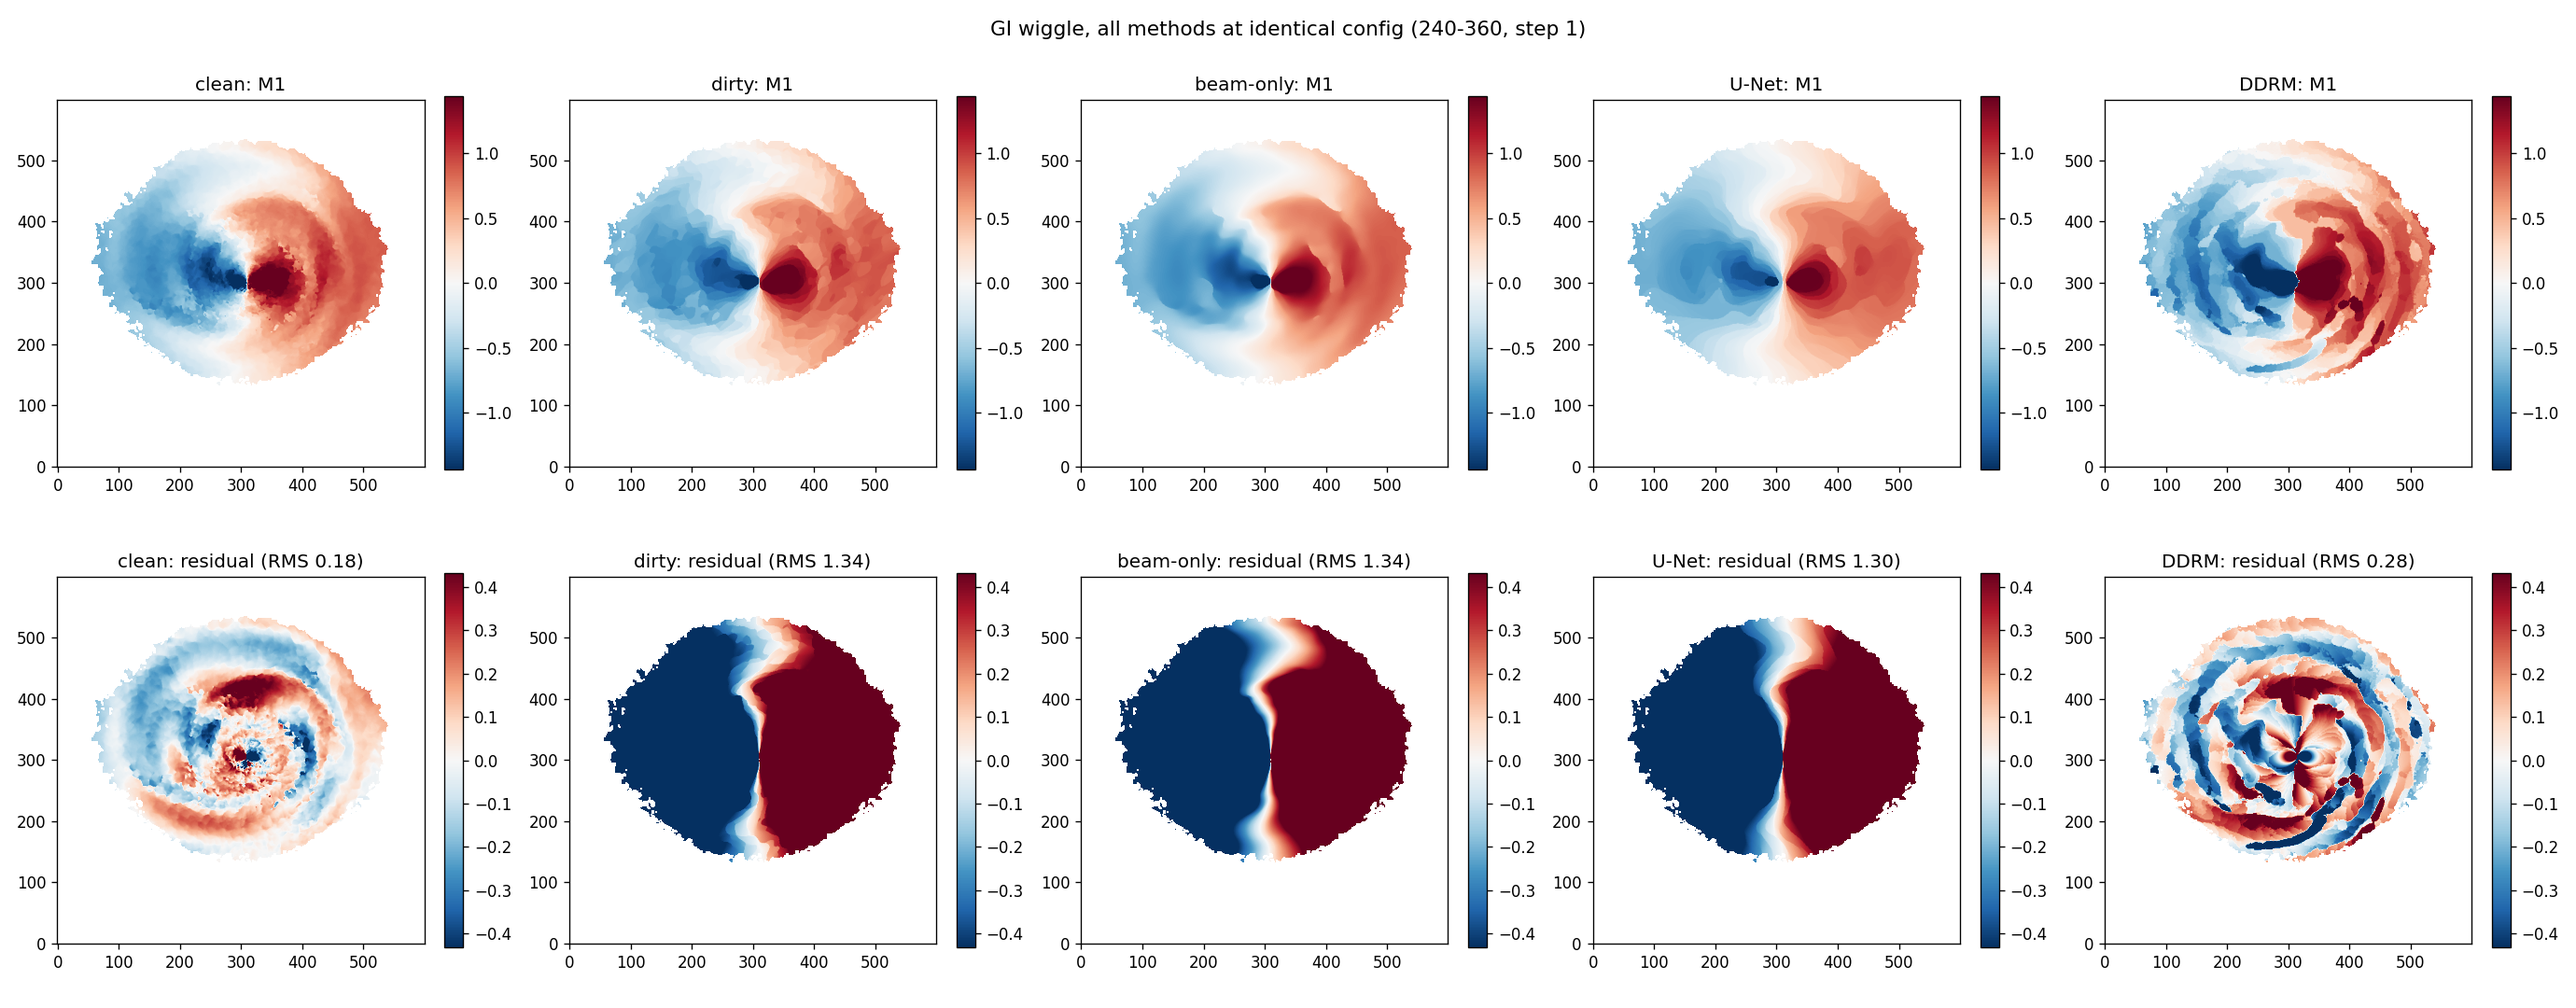
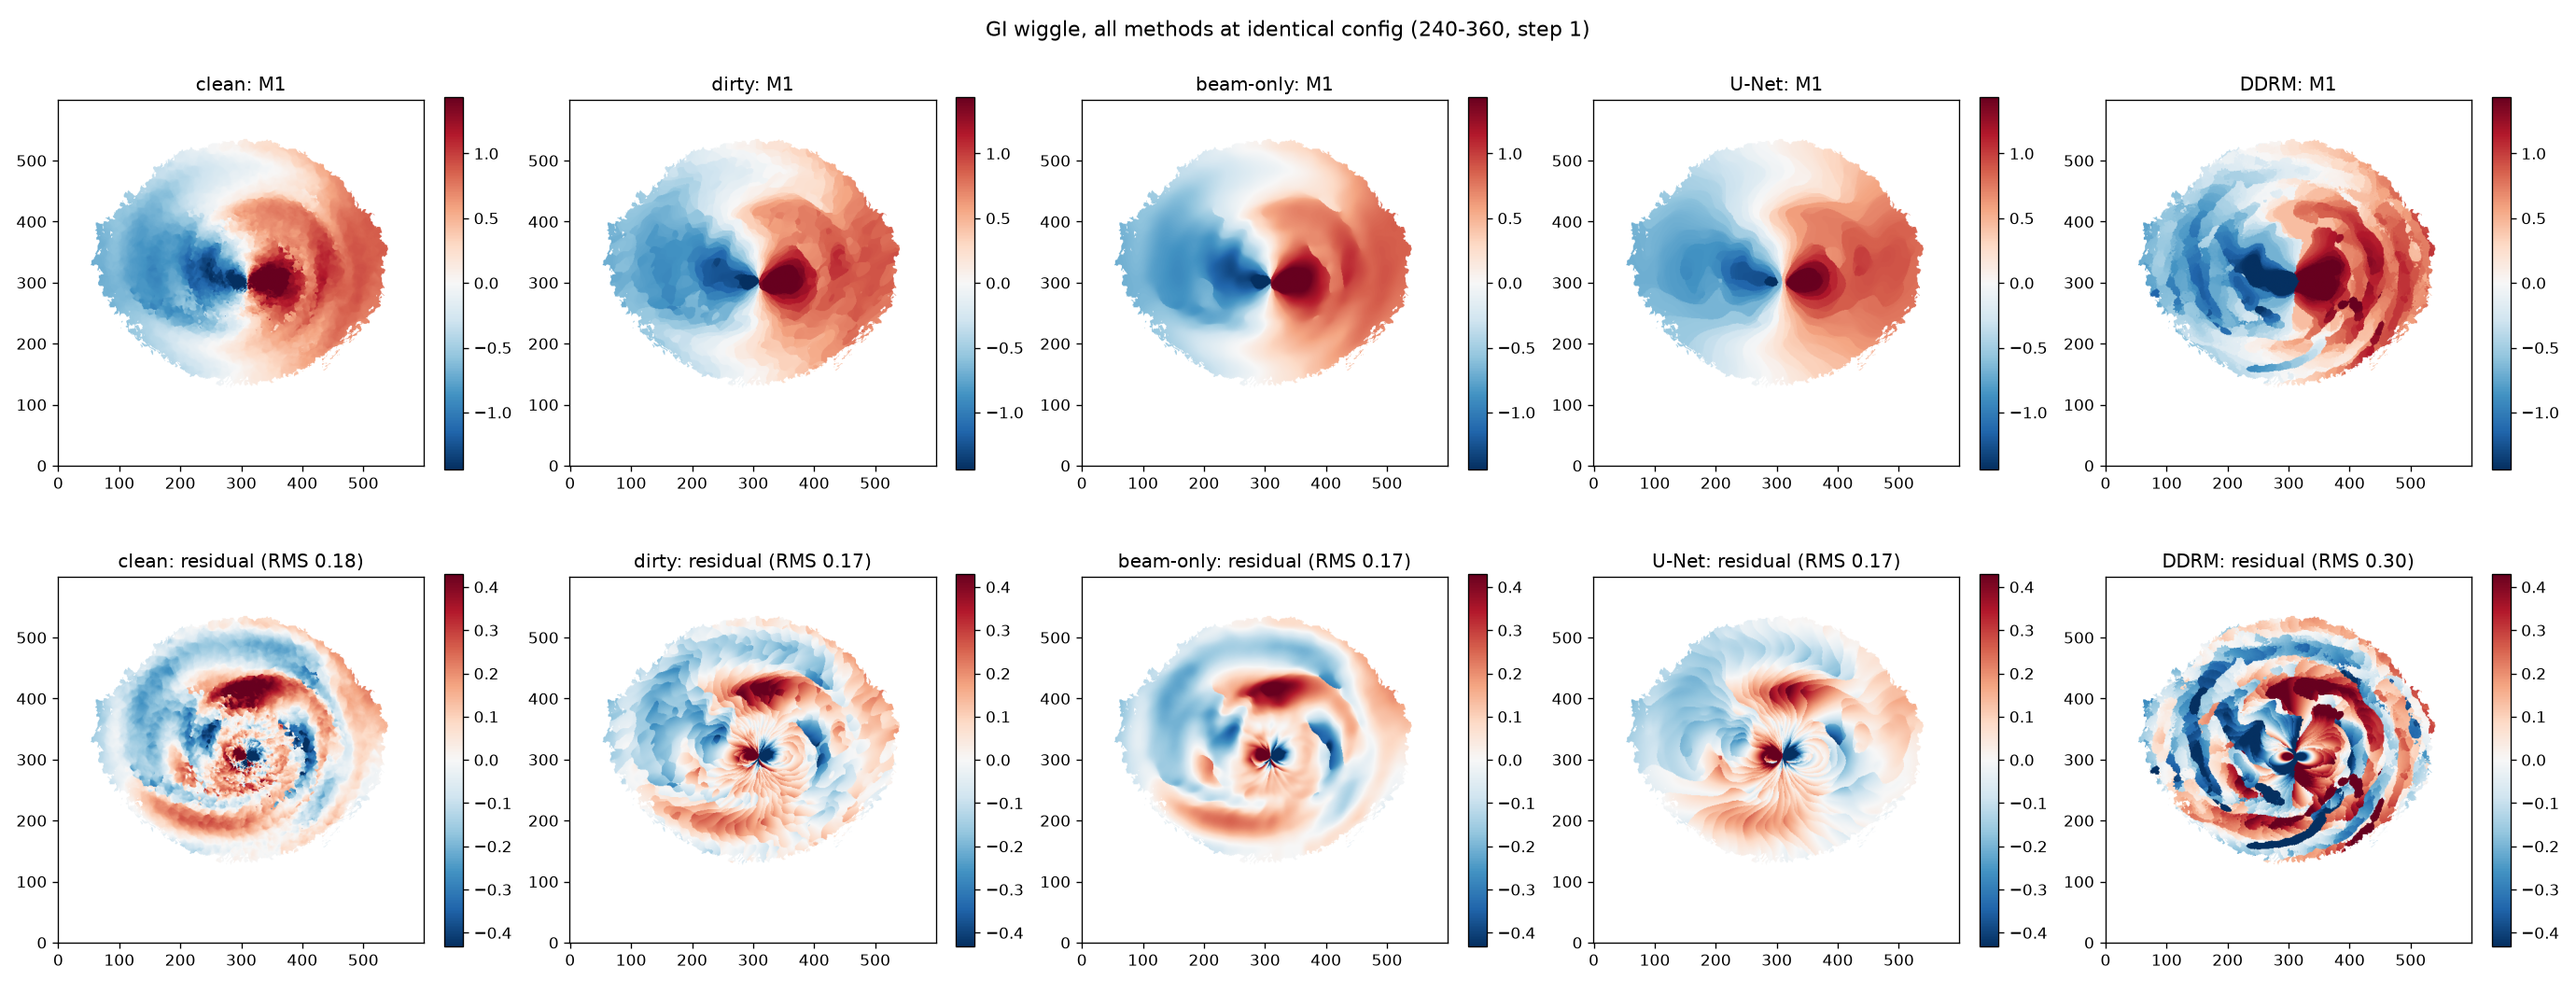
results: wiggle_all_methods confirms the retracted correction, reproduced
Second independent run under compare_wiggles(), both channel-sampling
configs. 240-360 step 1 matches the retraction entry's table to within
fit noise. Step 4 bunches all methods near 1.0, a sampling artifact in
quadratic_moment1 at coarse channel spacing, not a real finding.

diff --git a/DENOISING_DIFFUSION/results/PROGRESS.md b/DENOISING_DIFFUSION/results/PROGRESS.md
@@ -9,6 +9,41 @@ consequence. Triggers are `run`, `added` (a notebook downloaded into the repo), 
 
 ---
 
+## 2026-08-28 | run | wiggle_all_methods.py confirms the retraction's corrected table
+
+`compare_wiggles()` port of `experiments/wiggle_all_methods.py` (bug fix two entries below)
+finished its first real run, both channel-sampling configs, 173 min total on CPU (the run it
+replaces crashed at 111 min on a wrong key name, `vsys_kms` instead of `vsys`, fixed same
+session).
+
+**240-360 step 1 (121 channels), independent re-fit of the shared geometry (mstar 0.535 vs the
+retraction entry's 0.538, same ballpark, not the same optimiser run):**
+
+| method | resid RMS | raw r | resid r |
+|---|---|---|---|
+| clean | 0.182 | -- | -- |
+| dirty | 0.171 | 0.9928 | 0.8916 |
+| beam-only | 0.169 | 0.9947 | 0.9204 |
+| U-Net | 0.169 | 0.9874 | 0.8051 |
+| DDRM | 0.303 | 0.9527 | 0.5869 |
+
+Matches the RETRACTION entry's corrected table (0.920 / 0.891 / 0.804 / 0.583) to within
+fit noise. **This is now a reproduced result, not a one-off.** Ordering holds: beam-only and
+dirty close together, U-Net worse, DDRM worst by a wide margin.
+
+**240-360 step 4 (31 channels)**: all five methods bunch at 0.987-0.999, which is the
+sampling artifact the script's own docstring warns about, not a real finding -- coarse
+sampling degrades `quadratic_moment1`'s parabola fit for every cube alike, and that shared
+artifact correlates spuriously regardless of what happened upstream. Do not read "the
+methods are indistinguishable" out of this config; step 1 is the one that resolves them.
+
+Figure regenerated at `results/self-gravitating/wiggle_all_methods.png`, overwriting the
+stale pre-fix version. `wiggle_all_methods_step1.npz` regenerated alongside it.
+
+Kaggle GPU version (`09-wiggle-scoring.ipynb`) still worth finishing and running once the
+kinematic-loss checkpoints exist, since a 173-minute CPU turnaround does not scale to
+re-scoring four more gamma arms.
+
 ## 2026-08-28 | code + added | KinematicLoss and notebook 08, aimed at the corrected failure
 
 Direct response to the corrected result two entries below: U-Net degrades the wiggle residual
